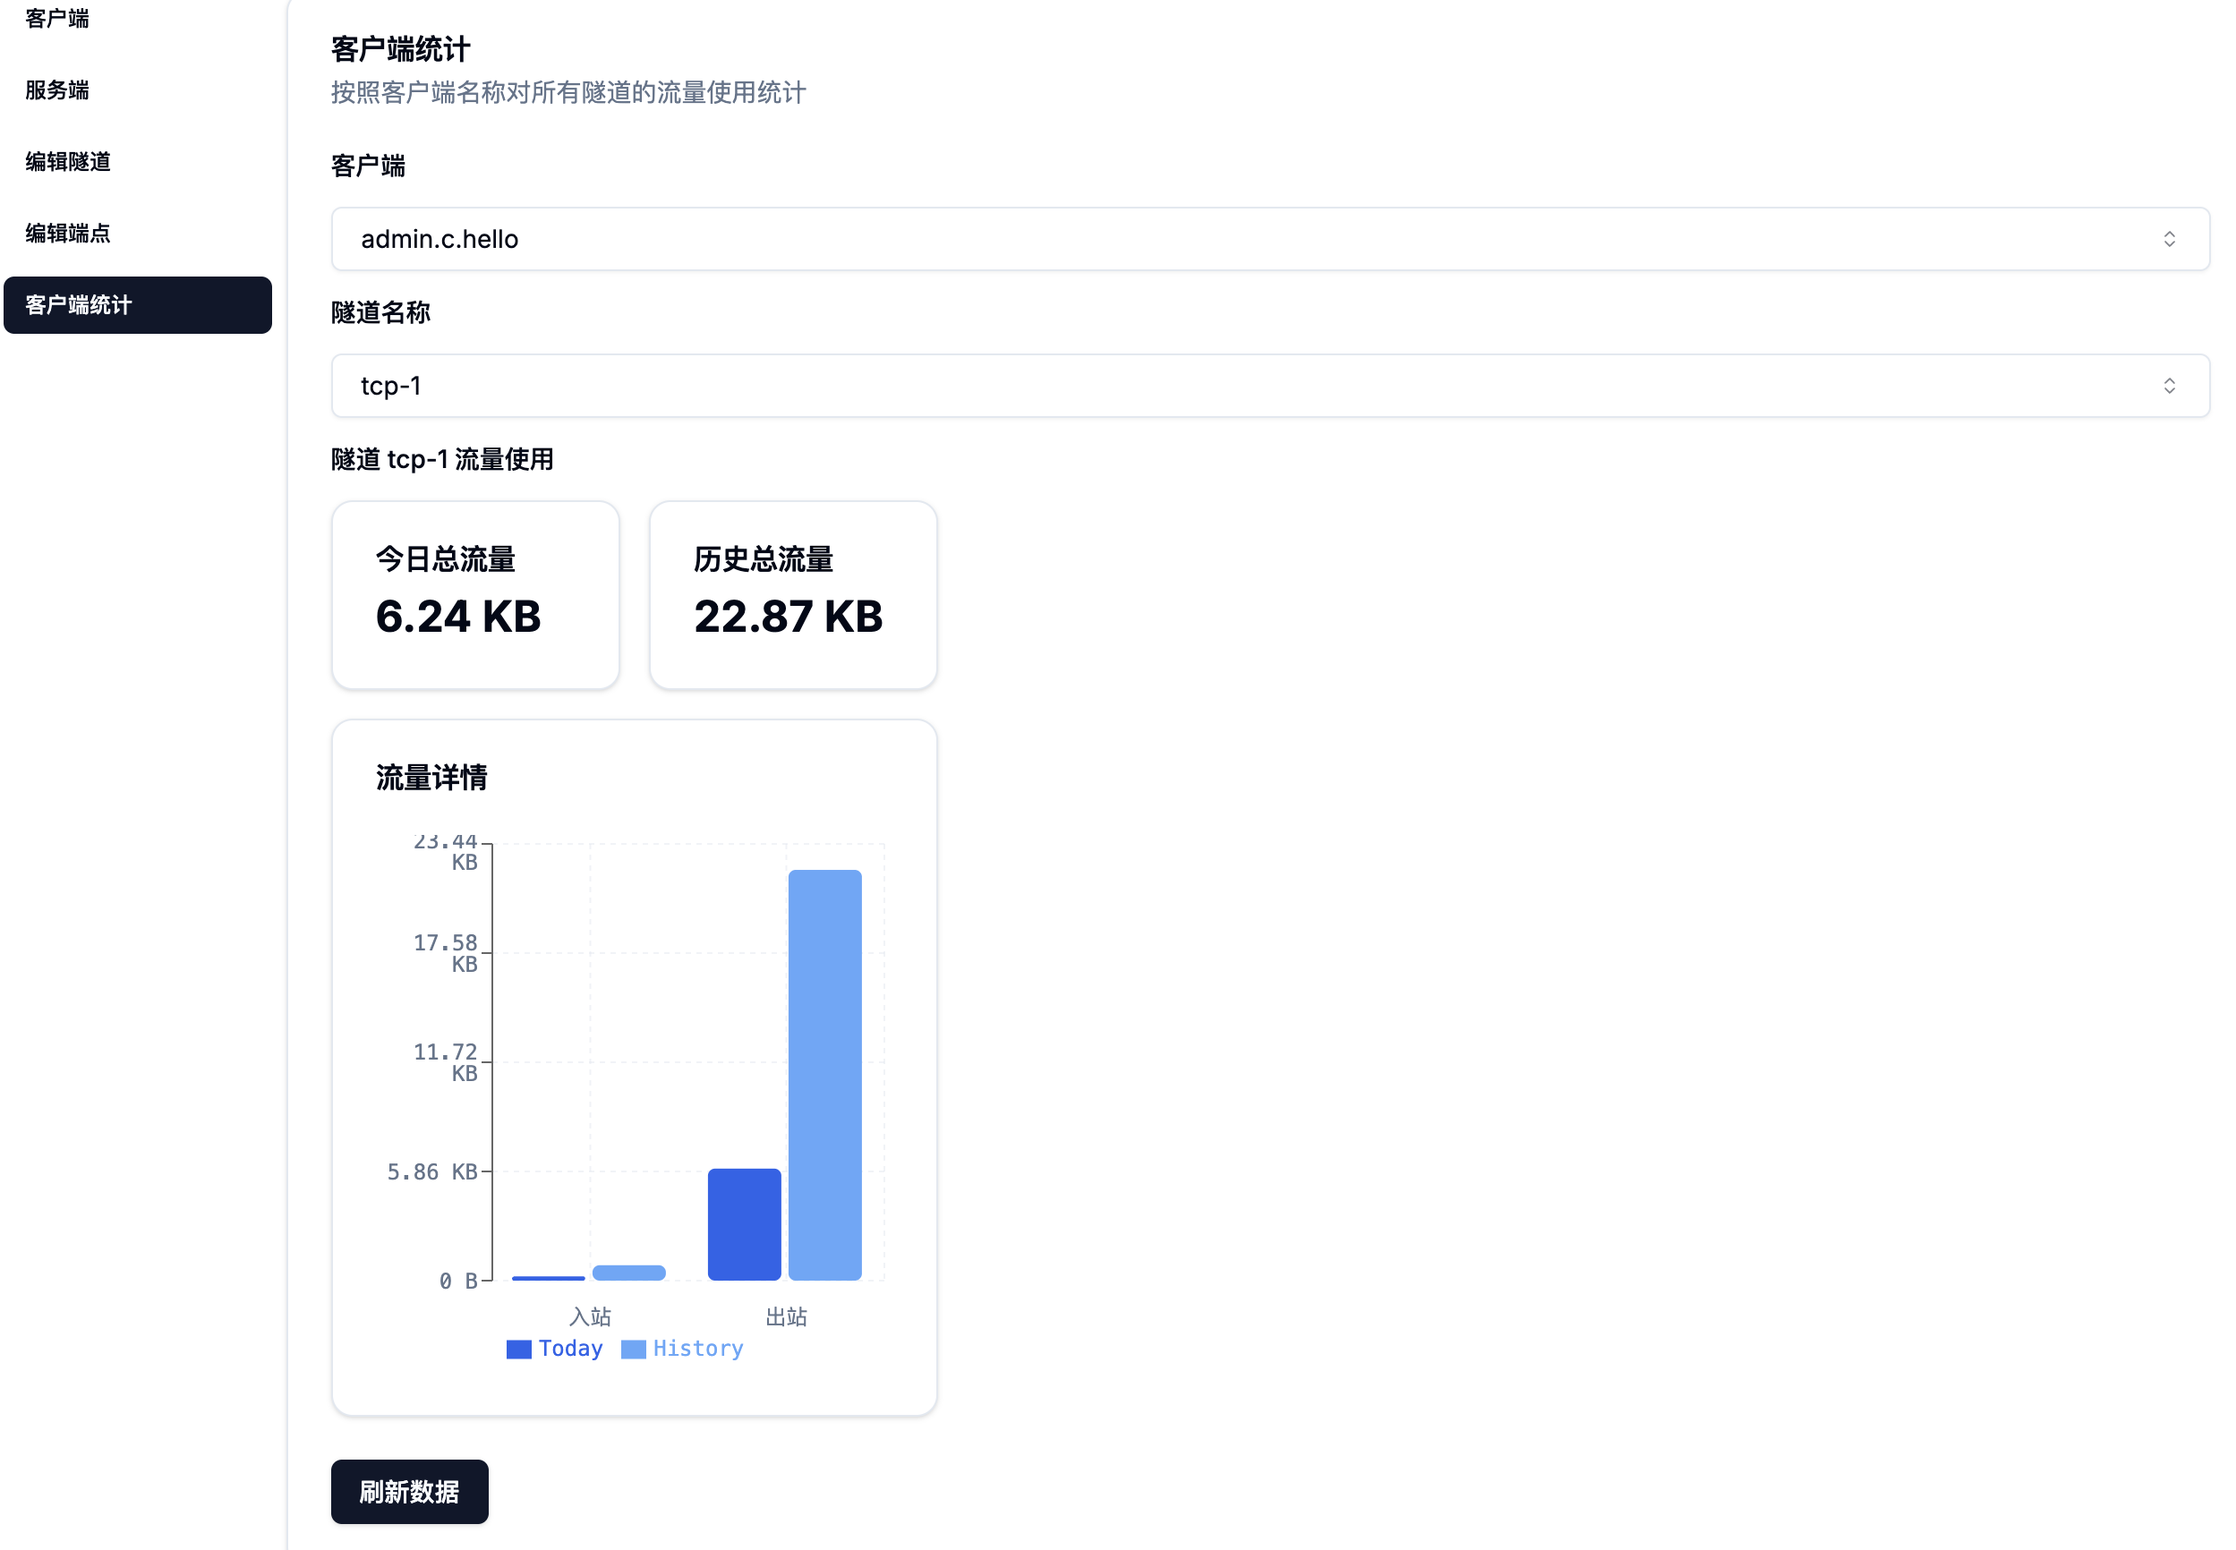
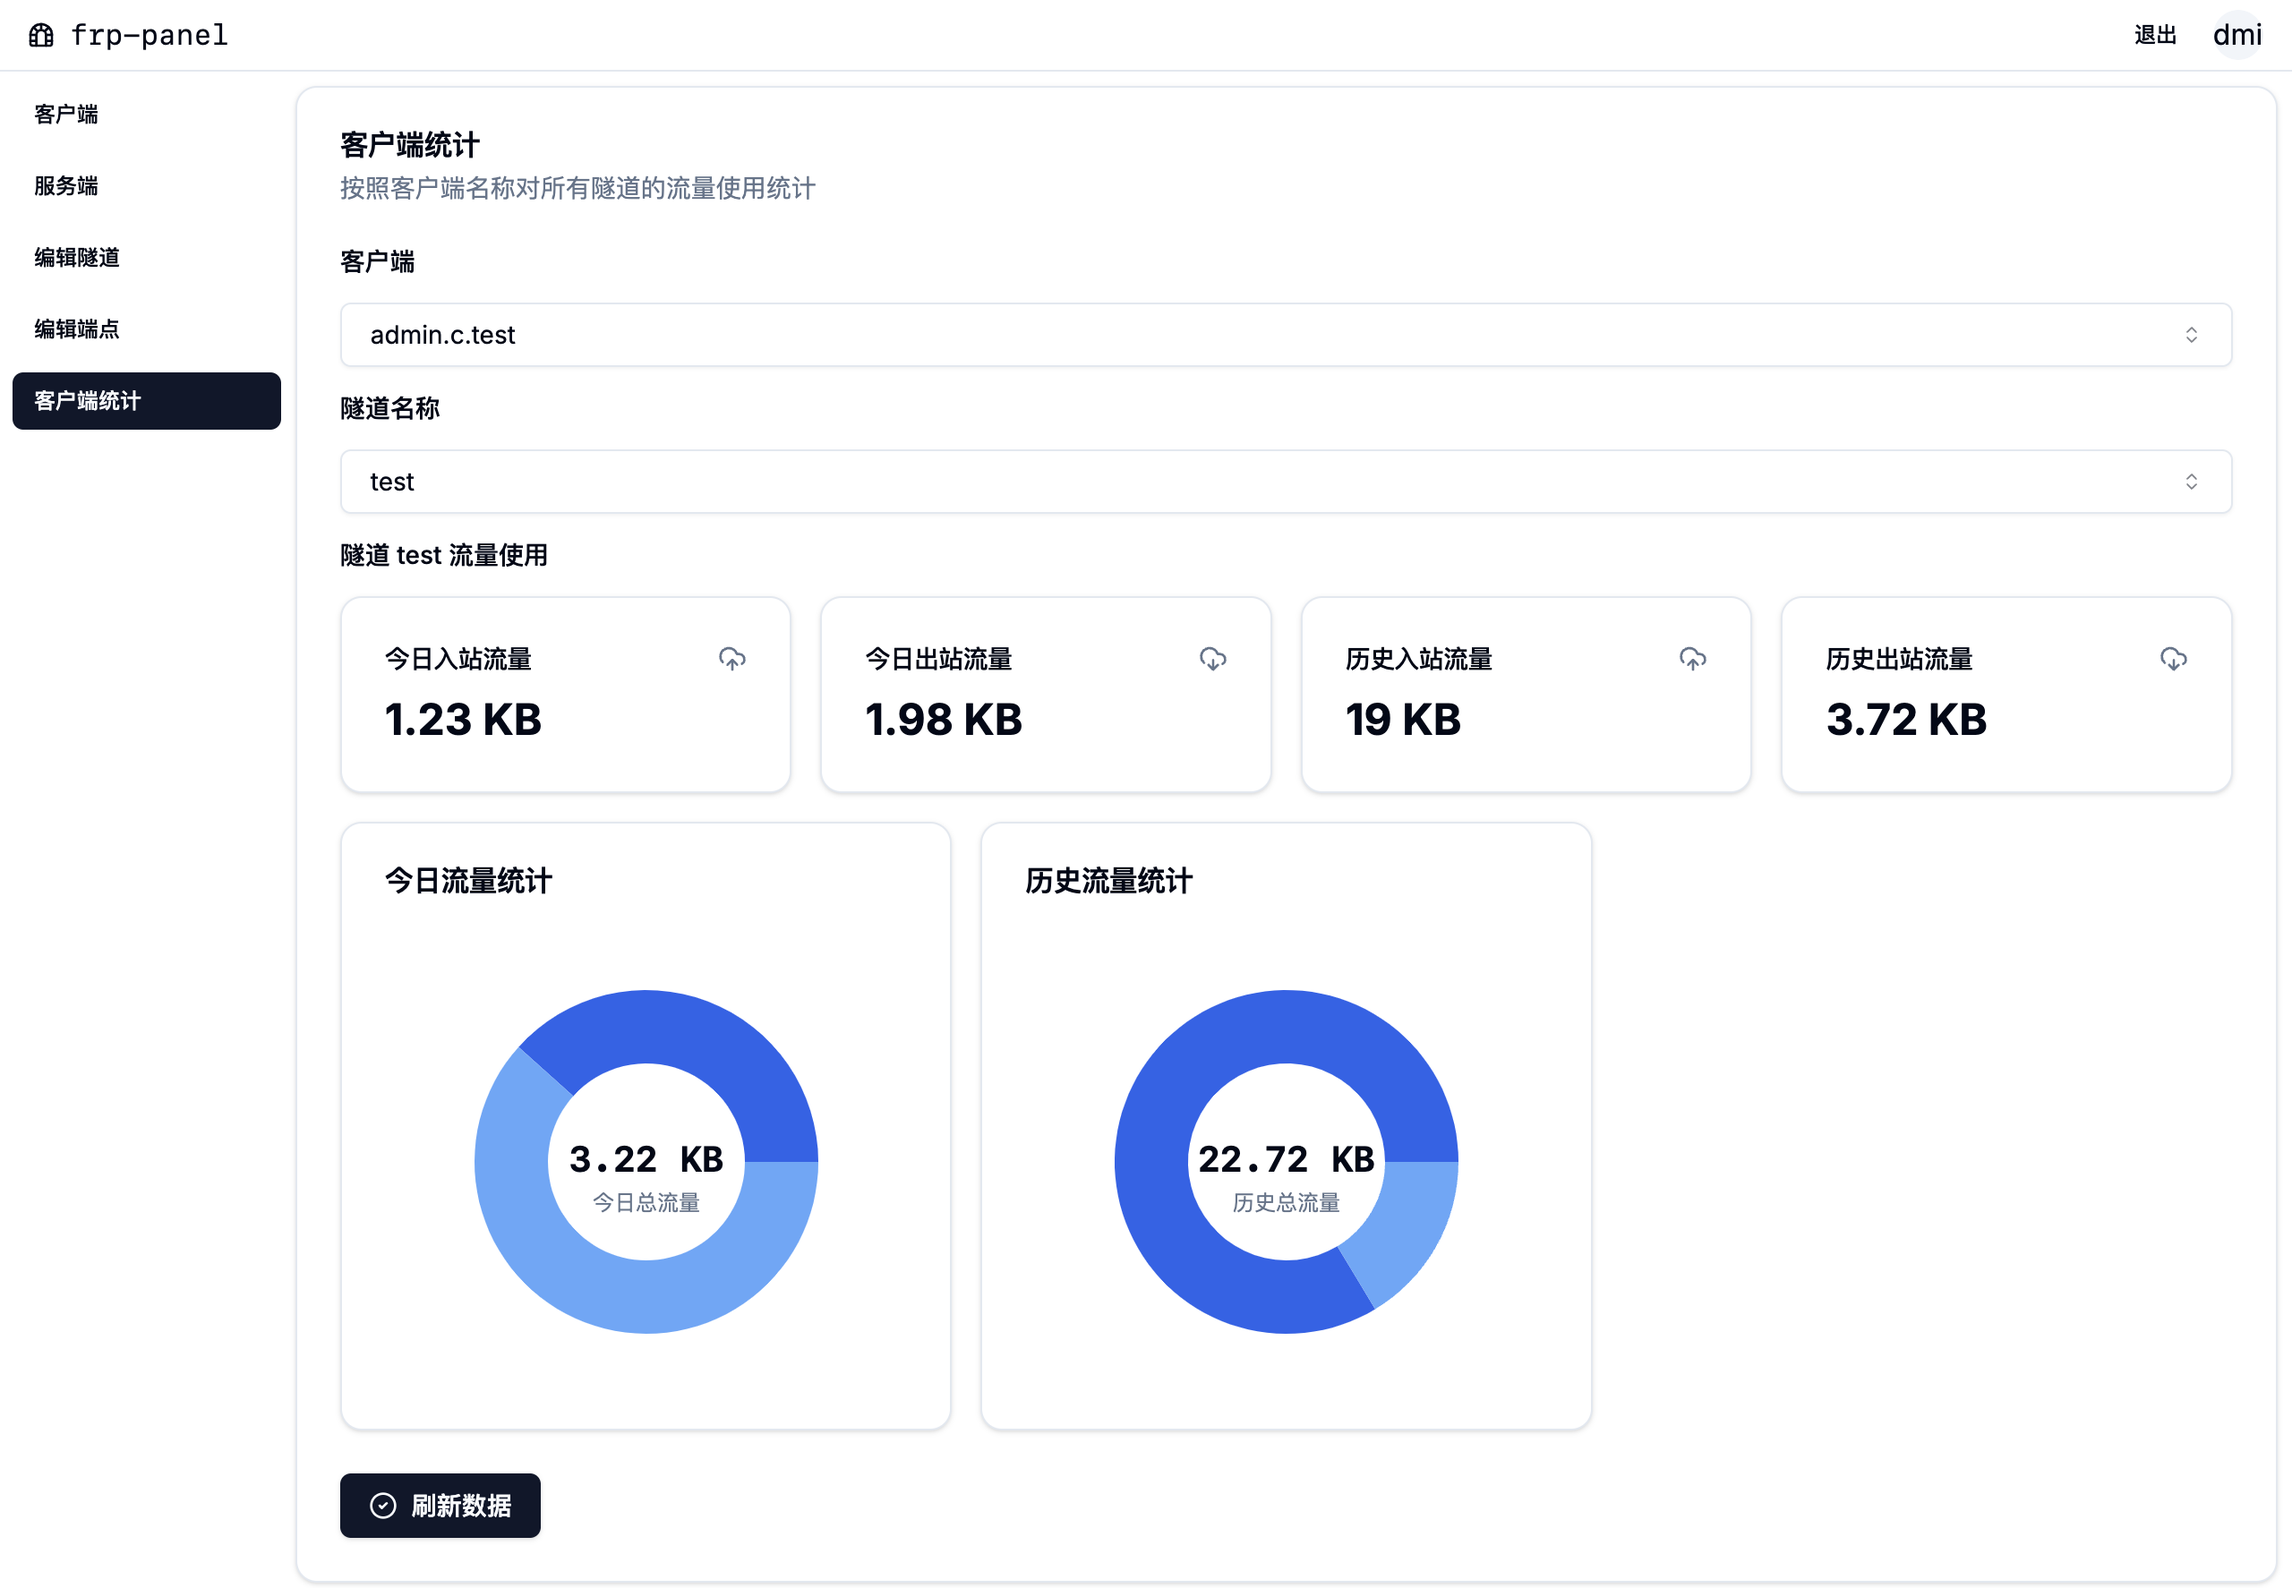
feat: proxy traffic pie chart

diff --git a/www/components/stats/client_stats_card.tsx b/www/components/stats/client_stats_card.tsx
@@ -4,7 +4,7 @@ import { Label } from '@/components/ui/label'
 import { useQuery } from '@tanstack/react-query'
 import { useSearchParams } from 'next/navigation'
 import { getProxyStatsByClientID } from '@/api/stats'
-import { ProxyTrafficBarChart } from '../charts/proxy-traffic-bar-chart'
+import { ProxyTrafficPieChart } from '../charts/proxy-traffic-pie-chart'
 import { ProxyTrafficOverview } from '../charts/proxy-traffic-overview'
 import { ClientSelector } from '../base/client-selector'
 import { ProxySelector } from '../base/proxy-selector'
@@ -19,6 +19,7 @@ export const ClientStatsCard: React.FC<ClientStatsCardProps> = ({ clientID: defa
   const [clientID, setClientID] = useState<string | undefined>()
   const [proxyName, setProxyName] = useState<string | undefined>()
   const [status, setStatus] = useState<"loading" | "success" | "error" | undefined>()
+  const [timeoutId, setTimeoutId] = useState<NodeJS.Timeout | null>(null);
 
   const searchParams = useSearchParams()
   const paramClientID = searchParams.get('clientID')
@@ -46,6 +47,31 @@ export const ClientStatsCard: React.FC<ClientStatsCardProps> = ({ clientID: defa
     setClientID(value)
   }
 
+  const mergeProxyInfos = (proxyInfos: ProxyInfo[]): ProxyInfo[] => {
+    const mergedMap: Map<string, ProxyInfo> = new Map();
+
+    for (const proxyInfo of proxyInfos) {
+      const key = `${proxyInfo.clientId}:${proxyInfo.name}`;
+
+      if (!mergedMap.has(key)) {
+        mergedMap.set(key, { ...proxyInfo });
+      } else {
+        const existingProxyInfo = mergedMap.get(key)!;
+        existingProxyInfo.todayTrafficIn = (existingProxyInfo.todayTrafficIn || BigInt(0)) + (proxyInfo.todayTrafficIn || BigInt(0));
+        existingProxyInfo.todayTrafficOut = (existingProxyInfo.todayTrafficOut || BigInt(0)) + (proxyInfo.todayTrafficOut || BigInt(0));
+        existingProxyInfo.historyTrafficIn = (existingProxyInfo.historyTrafficIn || BigInt(0)) + (proxyInfo.historyTrafficIn || BigInt(0));
+        existingProxyInfo.historyTrafficOut = (existingProxyInfo.historyTrafficOut || BigInt(0)) + (proxyInfo.historyTrafficOut || BigInt(0));
+      }
+    }
+
+    return Array.from(mergedMap.values());
+  };
+
+  function removeDuplicateCharacters(input: string): string {
+    const uniqueChars = new Set(input);
+    return Array.from(uniqueChars).join('');
+  }
+
   return (
     <Card className="w-full">
       <CardHeader>
@@ -65,12 +91,12 @@ export const ClientStatsCard: React.FC<ClientStatsCardProps> = ({ clientID: defa
         <Label>隧道名称</Label>
         <ProxySelector
           // @ts-ignore
-          proxyNames={clientStatsList?.proxyInfos.map((proxyInfo) => proxyInfo.name).filter((value) => value !== undefined) || []}
+          proxyNames={Array.from(new Set(clientStatsList?.proxyInfos.map((proxyInfo) => proxyInfo.name).filter((value) => value !== undefined))) || []}
           proxyName={proxyName}
           setProxyname={setProxyName} />
-        <div className="w-full grid gap-4 grid-cols-1 md:grid-cols-2 lg:grid-cols-3">
+        <div className="w-full grid gap-4 grid-cols-1">
           {clientStatsList && clientStatsList.proxyInfos.length > 0 &&
-            ProxyStatusCard(clientStatsList.proxyInfos.find((proxyInfo) => proxyInfo.name === proxyName))}
+            ProxyStatusCard(mergeProxyInfos(clientStatsList.proxyInfos).find((proxyInfo) => proxyInfo.name === proxyName))}
         </div>
       </CardContent>
       <CardFooter>
@@ -81,10 +107,12 @@ export const ClientStatsCard: React.FC<ClientStatsCardProps> = ({ clientID: defa
           }).catch(() => {
             setStatus("error")
           }).finally(() => {
-            const timer = setTimeout(() => {
+            if (timeoutId) { clearTimeout(timeoutId); }
+
+            const id = setTimeout(() => {
               setStatus(undefined)
             }, 3000)
-            return () => clearTimeout(timer)
+            setTimeoutId(id)
           })
         }}>
           {status === "loading" && <RefreshCcw className="w-4 h-4 animate-spin" />}
@@ -98,10 +126,21 @@ export const ClientStatsCard: React.FC<ClientStatsCardProps> = ({ clientID: defa
 
 const ProxyStatusCard = (proxyInfo: ProxyInfo | undefined) => {
   return (<>{proxyInfo &&
-    <div key={proxyInfo.name} className="flex flex-col w-full space-y-4">
+    <div key={proxyInfo.name} className="flex flex-col space-y-4">
       <Label>{`隧道 ${proxyInfo.name} 流量使用`}</Label>
       <ProxyTrafficOverview proxyInfo={proxyInfo} />
-      <ProxyTrafficBarChart proxyInfo={proxyInfo} />
+      <div className='grid grid-cols-1 sm:grid-cols-2 lg:grid-cols-3 gap-4'>
+        <ProxyTrafficPieChart
+          title='今日流量统计'
+          chartLabel='今日总流量'
+          trafficIn={proxyInfo.todayTrafficIn || BigInt(0)}
+          trafficOut={proxyInfo.todayTrafficOut || BigInt(0)} />
+        <ProxyTrafficPieChart
+          title='历史流量统计'
+          chartLabel='历史总流量'
+          trafficIn={proxyInfo.historyTrafficIn || BigInt(0)}
+          trafficOut={proxyInfo.historyTrafficOut || BigInt(0)} />
+      </div>
     </div>
   }</>)
 }

diff --git a/www/components/charts/proxy-traffic-overview.tsx b/www/components/charts/proxy-traffic-overview.tsx
@@ -1,27 +1,45 @@
 import { Card, CardContent, CardHeader, CardTitle } from "@/components/ui/card"
 import { ProxyInfo } from "@/lib/pb/common"
 import { formatBytes } from "@/lib/utils"
+import { CloudDownload, CloudUpload } from "lucide-react"
 
 export function ProxyTrafficOverview({ proxyInfo }: { proxyInfo: ProxyInfo }) {
-  const todayTotal = Number(proxyInfo.todayTrafficIn) + Number(proxyInfo.todayTrafficOut)
-  const historyTotal = Number(proxyInfo.historyTrafficIn) + Number(proxyInfo.historyTrafficOut)
-
   return (
-    <div className="grid grid-cols-1 sm:grid-cols-2 gap-4">
+    <div className="grid grid-cols-2 lg:grid-cols-4 gap-4">
       <Card>
         <CardHeader className="flex flex-row items-center justify-between space-y-0 pb-2">
-          <CardTitle>今日总流量</CardTitle>
+          <CardTitle className="tracking-tight text-sm font-medium">今日入站流量</CardTitle>
+          <CloudUpload className="h-4 w-4 text-muted-foreground" />
         </CardHeader>
         <CardContent>
-          <div className="text-2xl font-bold">{formatBytes(todayTotal)}</div>
+          <div className="text-2xl font-bold">{formatBytes(Number(proxyInfo.todayTrafficIn))}</div>
         </CardContent>
       </Card>
       <Card>
         <CardHeader className="flex flex-row items-center justify-between space-y-0 pb-2">
-          <CardTitle>历史总流量</CardTitle>
+          <CardTitle className="tracking-tight text-sm font-medium">今日出站流量</CardTitle>
+          <CloudDownload className="h-4 w-4 text-muted-foreground" />
         </CardHeader>
         <CardContent>
-          <div className="text-2xl font-bold">{formatBytes(historyTotal)}</div>
+          <div className="text-2xl font-bold">{formatBytes(Number(proxyInfo.todayTrafficOut))}</div>
+        </CardContent>
+      </Card>
+      <Card>
+        <CardHeader className="flex flex-row items-center justify-between space-y-0 pb-2">
+          <CardTitle className="tracking-tight text-sm font-medium">历史入站流量</CardTitle>
+          <CloudUpload className="h-4 w-4 text-muted-foreground" />
+        </CardHeader>
+        <CardContent>
+          <div className="text-2xl font-bold">{formatBytes(Number(proxyInfo.historyTrafficIn))}</div>
+        </CardContent>
+      </Card>
+      <Card>
+        <CardHeader className="flex flex-row items-center justify-between space-y-0 pb-2">
+          <CardTitle className="tracking-tight text-sm font-medium">历史出站流量</CardTitle>
+          <CloudDownload className="h-4 w-4 text-muted-foreground" />
+        </CardHeader>
+        <CardContent>
+          <div className="text-2xl font-bold">{formatBytes(Number(proxyInfo.historyTrafficOut))}</div>
         </CardContent>
       </Card>
     </div>

diff --git a/www/components/charts/proxy-traffic-pie-chart.tsx b/www/components/charts/proxy-traffic-pie-chart.tsx
@@ -1,0 +1,74 @@
+"use client"
+
+import { Label, Pie, PieChart } from "recharts"
+import { Card, CardContent, CardHeader, CardTitle } from "@/components/ui/card"
+import { formatBytes } from "@/lib/utils"
+import {
+  ChartConfig,
+  ChartContainer,
+  ChartTooltip,
+  ChartTooltipContent,
+} from "@/components/ui/chart"
+
+const chartConfig = {
+  trafficIn: {
+    label: "入站",
+  },
+  trafficOut: {
+    label: "出站",
+  },
+} satisfies ChartConfig
+
+export function ProxyTrafficPieChart({ trafficIn, trafficOut, title, chartLabel }:
+  { trafficIn: bigint,
+    trafficOut: bigint,
+    title: string,
+    chartLabel: string,
+  }) {
+  const data = [
+    { type: "trafficIn", data: Number(trafficIn), fill: "hsl(var(--chart-1))" },
+    { type: "trafficOut", data: Number(trafficOut), fill: "hsl(var(--chart-2))" }]
+
+  return (
+    <Card>
+      <CardHeader>
+        <CardTitle>{title}</CardTitle>
+      </CardHeader>
+      <CardContent className="font-mono">
+        <ChartContainer
+          config={chartConfig}
+          className="mx-auto aspect-square max-h-[250px]"
+        >
+          <PieChart>
+            <ChartTooltip
+              cursor={false}
+              content={<ChartTooltipContent hideLabel valueFormatter={(value) => formatBytes(Number(value))} />}
+            />
+            <Pie data={data}
+              dataKey="data"
+              nameKey="type"
+              innerRadius={55} strokeWidth={10}>
+              <Label
+                content={({ viewBox }) => {
+                  if (viewBox && "cx" in viewBox && "cy" in viewBox) {
+                    return (
+                      <text x={viewBox.cx} y={viewBox.cy} textAnchor="middle" dominantBaseline="middle">
+                        <tspan x={viewBox.cx} y={viewBox.cy} className="fill-foreground text-xl font-bold">
+                          {formatBytes(Number(trafficIn) + Number(trafficOut))}
+                        </tspan>
+                        <tspan x={viewBox.cx} y={(viewBox.cy || 0) + 24} className="fill-muted-foreground" >
+                          {chartLabel}
+                        </tspan>
+                      </text>
+                    )
+                  }
+                }}
+              />
+            </Pie>
+          </PieChart>
+        </ChartContainer>
+      </CardContent>
+    </Card>
+  )
+}
+

diff --git a/www/components/frps_editor.tsx b/www/components/frps_editor.tsx
@@ -38,10 +38,10 @@ export const FRPSEditor: React.FC<FRPSFormProps> = ({ server, serverID }) => {
     } catch (error) {
       toast({ title: '更新失败' })
     }
+    refetchServer()
   }
 
   useEffect(() => {
-    refetchServer()
     try {
       setConfigContent(
         JSON.stringify(
@@ -71,7 +71,7 @@ export const FRPSEditor: React.FC<FRPSFormProps> = ({ server, serverID }) => {
       setEditorValue('{}')
       setServerComment('')
     }
-  }, [serverResp, refetchServer])
+  }, [serverResp])
 
   return (
     <div className="grid w-full gap-1.5">

diff --git a/biz/master/proxy/task_collect_daily_stats.go b/biz/master/proxy/task_collect_daily_stats.go
@@ -30,8 +30,8 @@ func CollectDailyStats() error {
 			Type:       item.Type,
 			UserID:     item.UserID,
 			TenantID:   item.TenantID,
-			TrafficIn:  item.TodayTrafficIn,
-			TrafficOut: item.TodayTrafficOut,
+			TrafficIn:  item.HistoryTrafficIn,
+			TrafficOut: item.HistoryTrafficOut,
 		}
 	})
 

diff --git a/cmd/frpp/master.go b/cmd/frpp/master.go
@@ -52,7 +52,7 @@ func runMaster() {
 	defer r.Stop()
 
 	tasks := watcher.NewClient()
-	tasks.AddCronTask("0 59 23 * * *", proxy.CollectDailyStats)
+	tasks.AddCronTask("0 0 3 * * *", proxy.CollectDailyStats)
 	defer tasks.Stop()
 
 	var wg conc.WaitGroup
